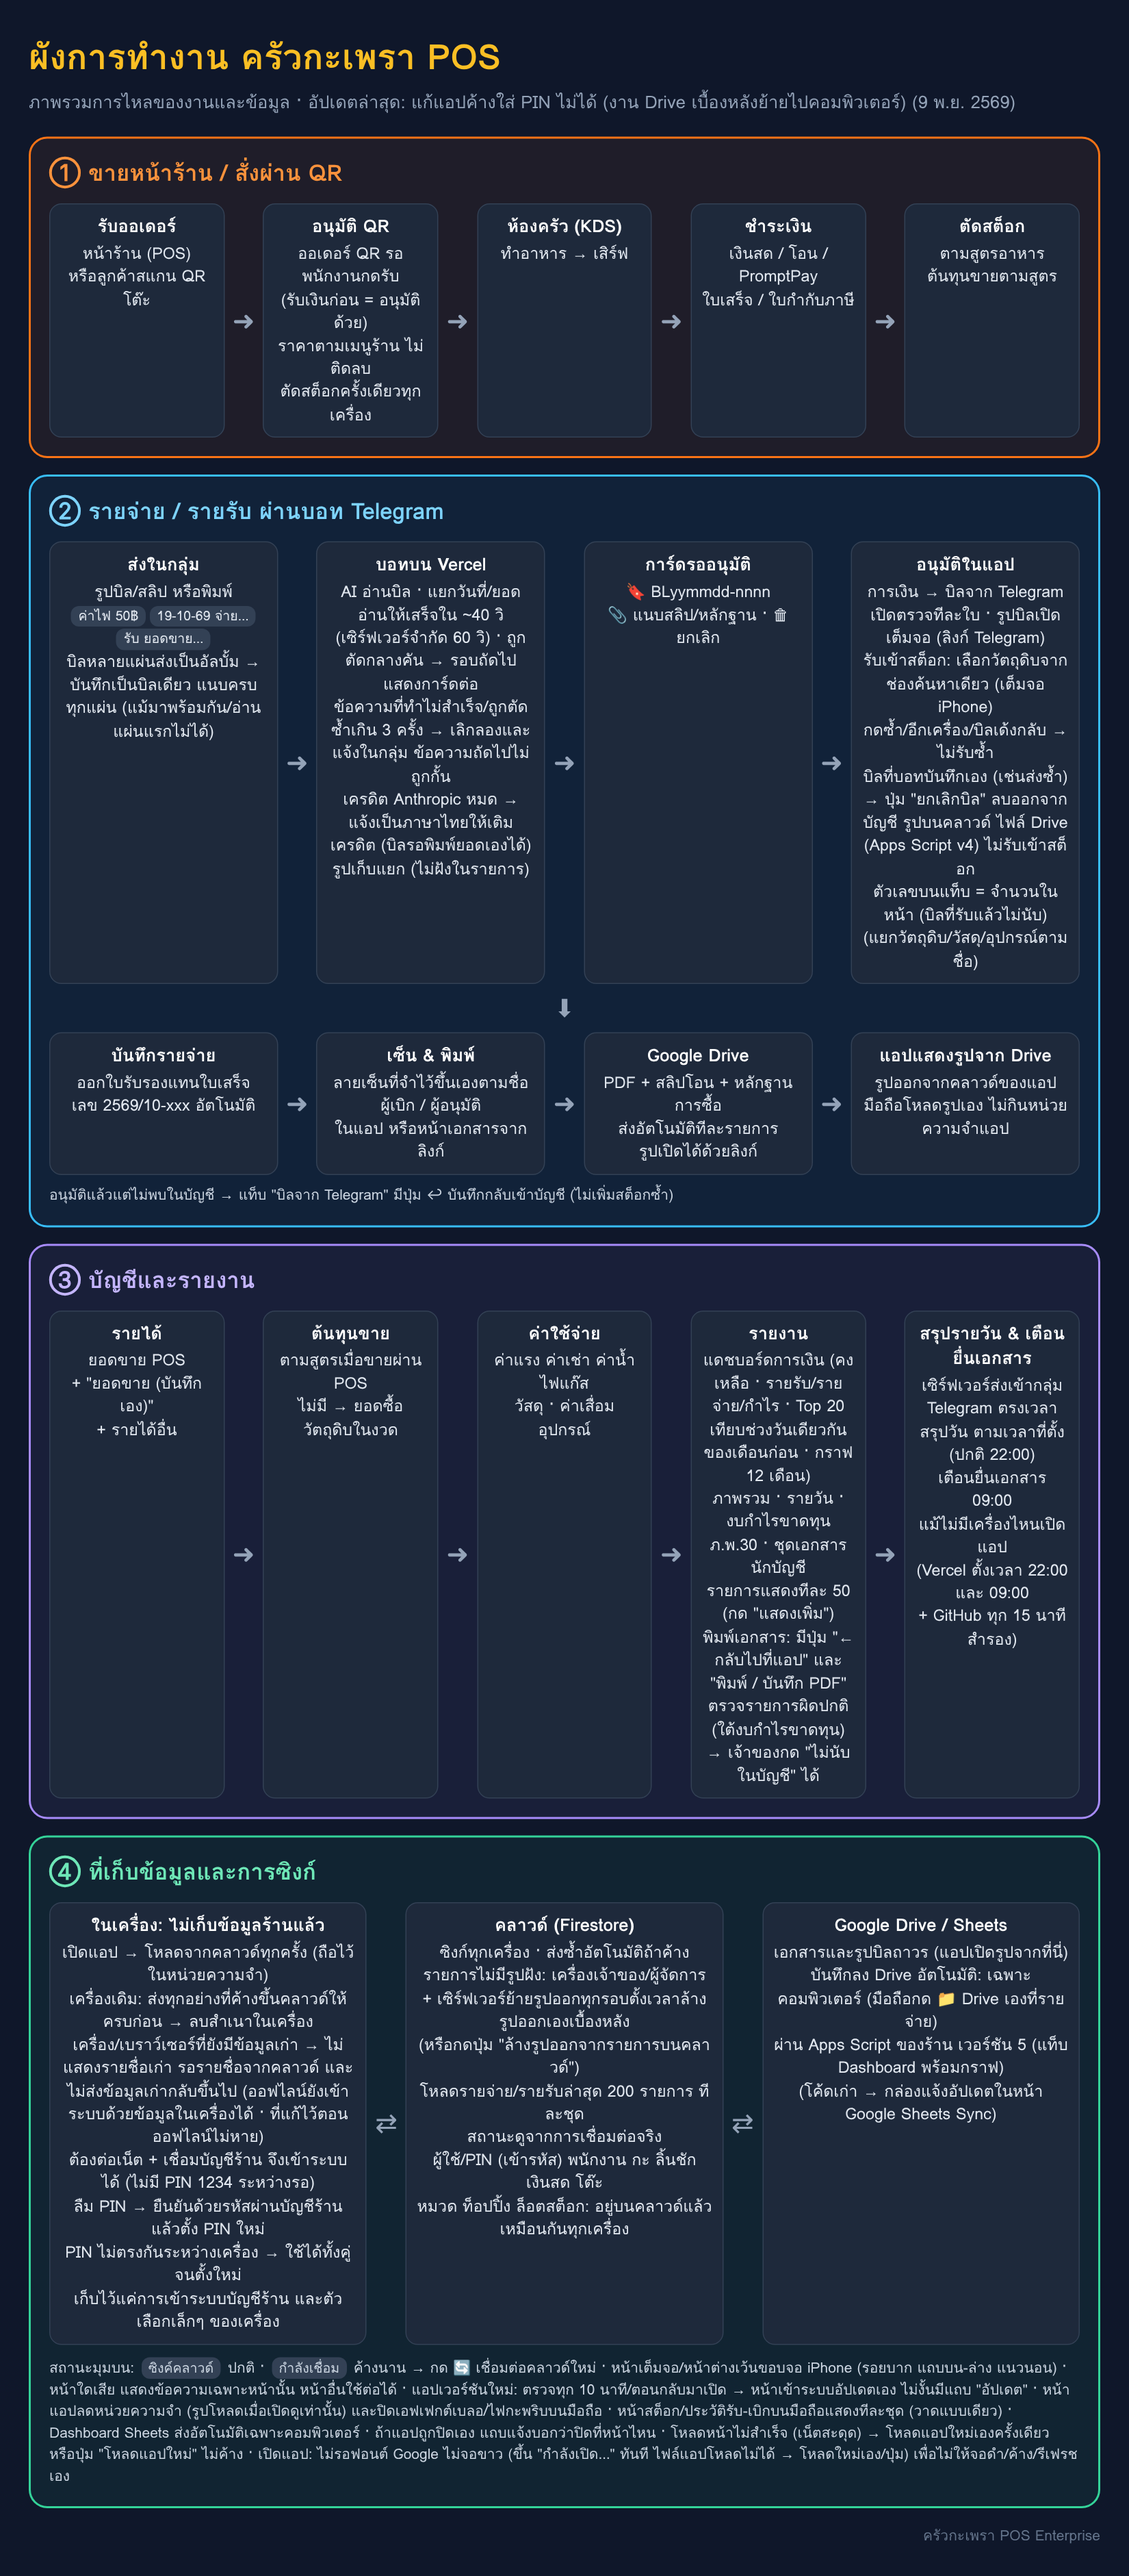
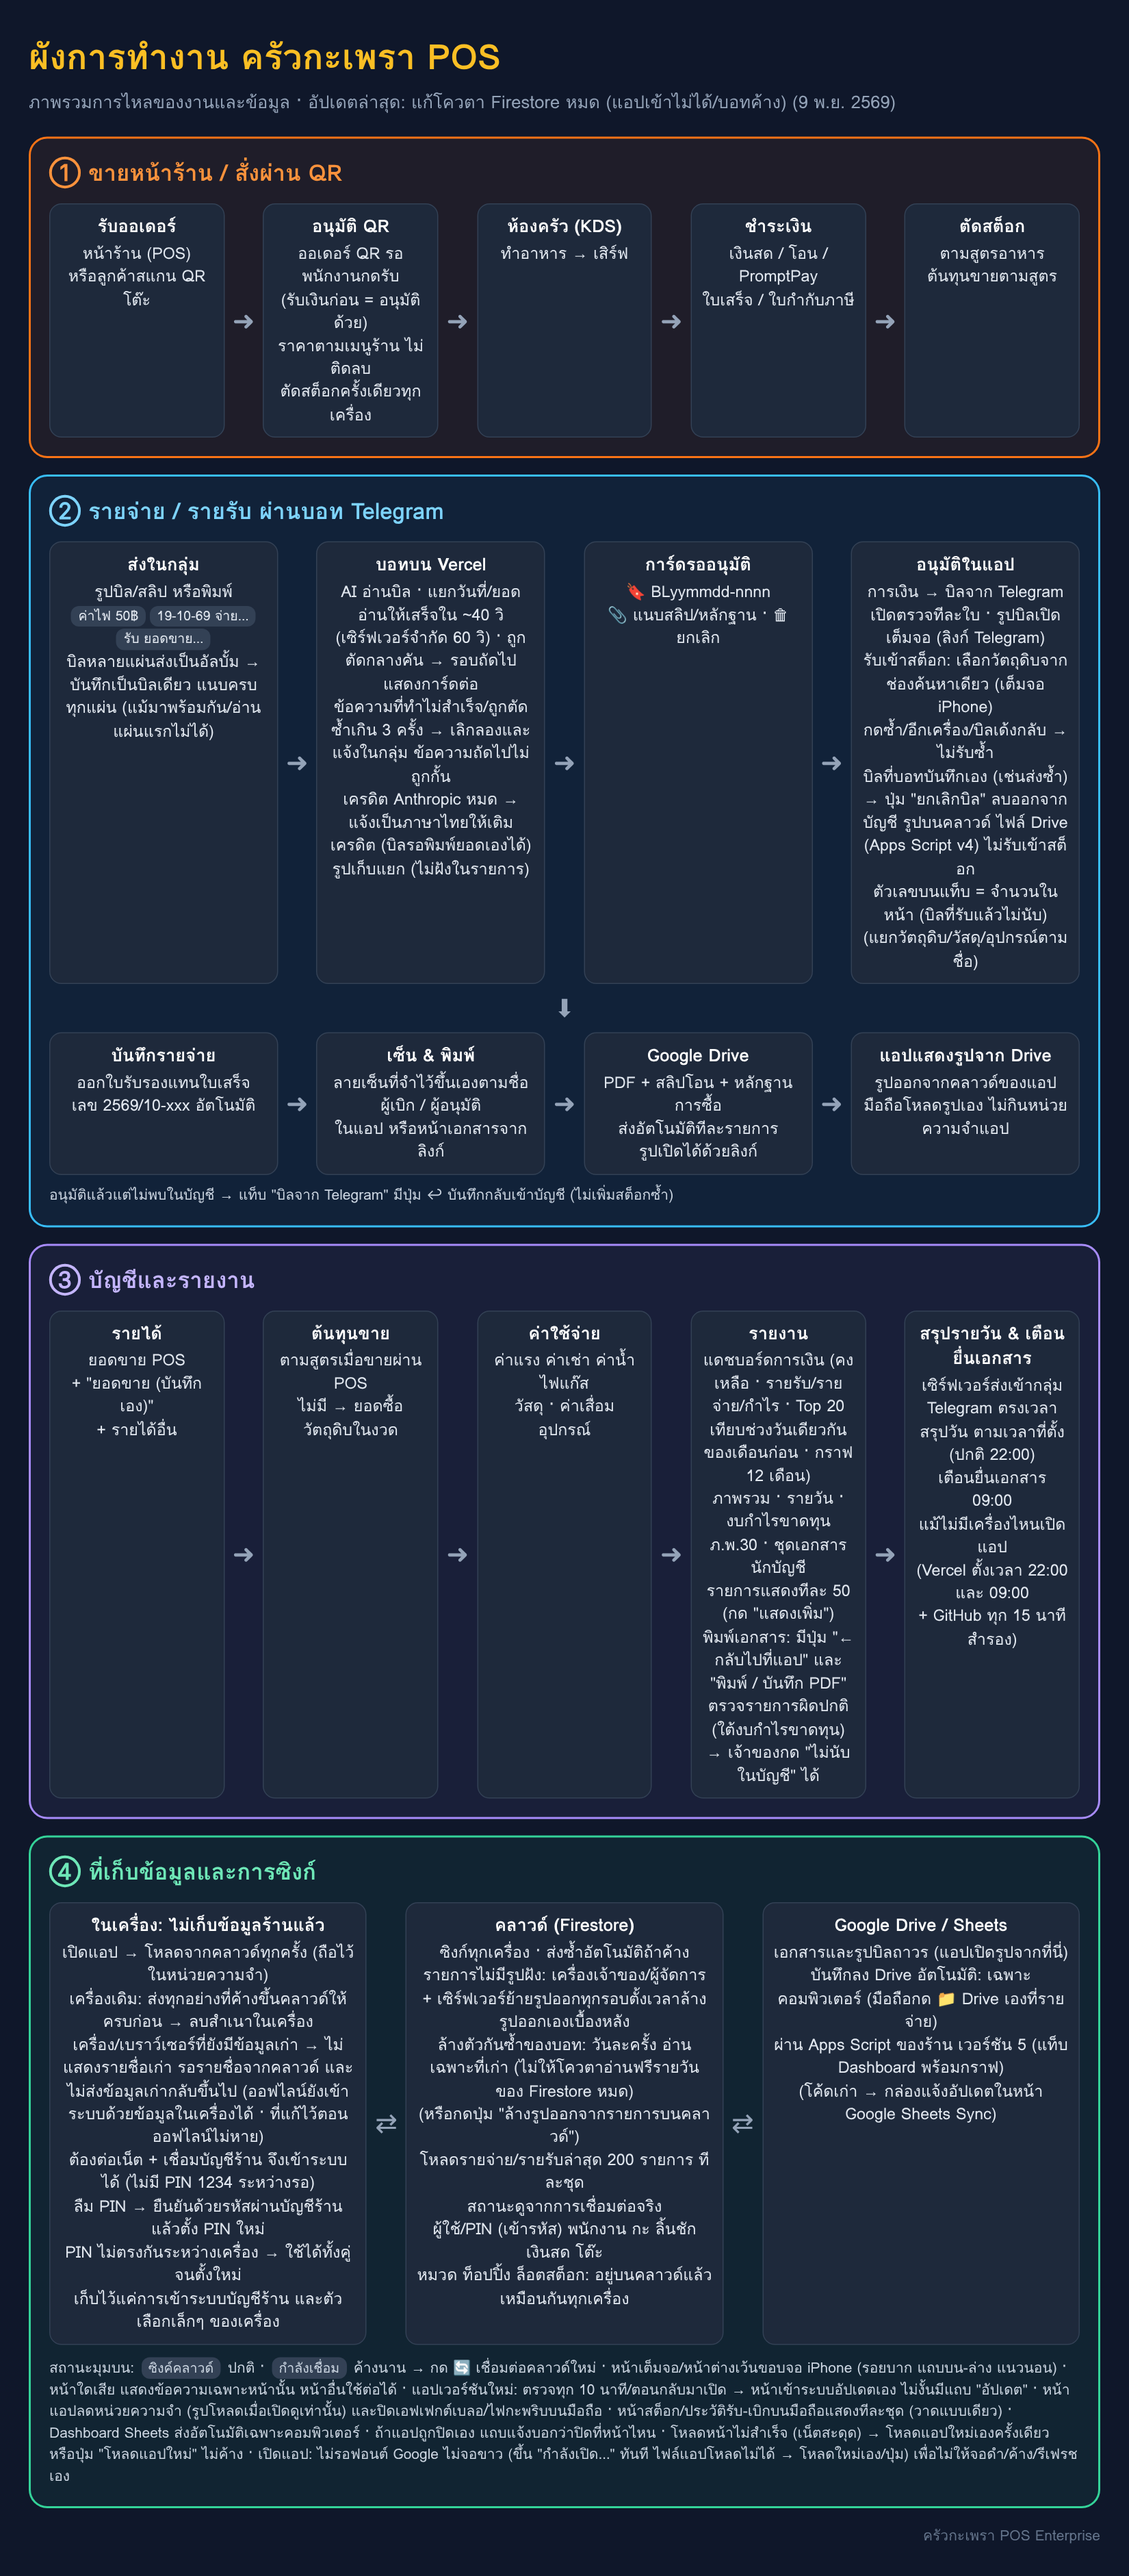
Stop using up the free Firestore reads: clean the bot's markers once a day
The project hit Firestore's daily quota ("Quota exceeded"): the app could not
read the people (PIN screen stuck) and the bot could not save bills ("reading
the bill" posted again on every Telegram retry). The markers clean-up added
on Nov 1 listed the whole status collection (up to 1,500 documents) on every
scheduled run, every 15 minutes: about 140,000 reads a day against 50,000.

- The clean-up runs once a day and reads only the markers old enough to go
  (a query on their time).
- The scheduled run's health line reads two documents (no listing).

Claude-Session: https://claude.ai/code/session_01Gq3UvYW4wv3hsVCXoh5wxy

Changed region(s): [[0.3709, 0.7775, 0.6182, 0.9019], [0.6182, 0.0311, 0.6491, 0.0622]]

diff --git a/docs/workflow/flow.html b/docs/workflow/flow.html
@@ -17,7 +17,7 @@ h1{margin:0 0 4px;font-size:34px;color:#fbbf24}.sub{color:#94a3b8;font-size:17px
 .foot{color:#64748b;font-size:14px;margin-top:6px;text-align:right}
 </style></head><body>
 <h1>ผังการทำงาน ครัวกะเพรา POS</h1>
-<div class="sub">ภาพรวมการไหลของงานและข้อมูล · อัปเดตล่าสุด: แก้แอปค้างใส่ PIN ไม่ได้ (งาน Drive เบื้องหลังย้ายไปคอมพิวเตอร์) (9 พ.ย. 2569)</div>
+<div class="sub">ภาพรวมการไหลของงานและข้อมูล · อัปเดตล่าสุด: แก้โควตา Firestore หมด (แอปเข้าไม่ได้/บอทค้าง) (9 พ.ย. 2569)</div>
 
 <div class="lane pos"><h2>① ขายหน้าร้าน / สั่งผ่าน QR</h2>
 <div class="row">
@@ -57,7 +57,7 @@ h1{margin:0 0 4px;font-size:34px;color:#fbbf24}.sub{color:#94a3b8;font-size:17px
 <div class="lane data"><h2>④ ที่เก็บข้อมูลและการซิงก์</h2>
 <div class="row">
 <div class="box"><b>ในเครื่อง: ไม่เก็บข้อมูลร้านแล้ว</b>เปิดแอป → โหลดจากคลาวด์ทุกครั้ง (ถือไว้ในหน่วยความจำ)<br>เครื่องเดิม: ส่งทุกอย่างที่ค้างขึ้นคลาวด์ให้ครบก่อน → ลบสำเนาในเครื่อง<br>เครื่อง/เบราว์เซอร์ที่ยังมีข้อมูลเก่า → ไม่แสดงรายชื่อเก่า รอรายชื่อจากคลาวด์ และไม่ส่งข้อมูลเก่ากลับขึ้นไป (ออฟไลน์ยังเข้าระบบด้วยข้อมูลในเครื่องได้ · ที่แก้ไว้ตอนออฟไลน์ไม่หาย)<br>ต้องต่อเน็ต + เชื่อมบัญชีร้าน จึงเข้าระบบได้ (ไม่มี PIN 1234 ระหว่างรอ)<br>ลืม PIN → ยืนยันด้วยรหัสผ่านบัญชีร้าน แล้วตั้ง PIN ใหม่<br>PIN ไม่ตรงกันระหว่างเครื่อง → ใช้ได้ทั้งคู่จนตั้งใหม่<br>เก็บไว้แค่การเข้าระบบบัญชีร้าน และตัวเลือกเล็กๆ ของเครื่อง</div><div class="ar">⇄</div>
-<div class="box"><b>คลาวด์ (Firestore)</b>ซิงก์ทุกเครื่อง · ส่งซ้ำอัตโนมัติถ้าค้าง<br>รายการไม่มีรูปฝัง: เครื่องเจ้าของ/ผู้จัดการ<br>+ เซิร์ฟเวอร์ย้ายรูปออกทุกรอบตั้งเวลาล้างรูปออกเองเบื้องหลัง<br>(หรือกดปุ่ม "ล้างรูปออกจากรายการบนคลาวด์")<br>โหลดรายจ่าย/รายรับล่าสุด 200 รายการ ทีละชุด<br>สถานะดูจากการเชื่อมต่อจริง<br>ผู้ใช้/PIN (เข้ารหัส) พนักงาน กะ ลิ้นชักเงินสด โต๊ะ<br>หมวด ท็อปปิ้ง ล็อตสต็อก: อยู่บนคลาวด์แล้ว เหมือนกันทุกเครื่อง</div><div class="ar">⇄</div>
+<div class="box"><b>คลาวด์ (Firestore)</b>ซิงก์ทุกเครื่อง · ส่งซ้ำอัตโนมัติถ้าค้าง<br>รายการไม่มีรูปฝัง: เครื่องเจ้าของ/ผู้จัดการ<br>+ เซิร์ฟเวอร์ย้ายรูปออกทุกรอบตั้งเวลาล้างรูปออกเองเบื้องหลัง<br>ล้างตัวกันซ้ำของบอท: วันละครั้ง อ่านเฉพาะที่เก่า (ไม่ให้โควตาอ่านฟรีรายวันของ Firestore หมด)<br>(หรือกดปุ่ม "ล้างรูปออกจากรายการบนคลาวด์")<br>โหลดรายจ่าย/รายรับล่าสุด 200 รายการ ทีละชุด<br>สถานะดูจากการเชื่อมต่อจริง<br>ผู้ใช้/PIN (เข้ารหัส) พนักงาน กะ ลิ้นชักเงินสด โต๊ะ<br>หมวด ท็อปปิ้ง ล็อตสต็อก: อยู่บนคลาวด์แล้ว เหมือนกันทุกเครื่อง</div><div class="ar">⇄</div>
 <div class="box"><b>Google Drive / Sheets</b>เอกสารและรูปบิลถาวร (แอปเปิดรูปจากที่นี่)<br>บันทึกลง Drive อัตโนมัติ: เฉพาะคอมพิวเตอร์ (มือถือกด 📁 Drive เองที่รายจ่าย)<br>ผ่าน Apps Script ของร้าน เวอร์ชัน 5 (แท็บ Dashboard พร้อมกราฟ)<br>(โค้ดเก่า → กล่องแจ้งอัปเดตในหน้า Google Sheets Sync)</div>
 </div>
 <div class="note">สถานะมุมบน: <span class="tag">ซิงค์คลาวด์</span> ปกติ · <span class="tag">กำลังเชื่อม</span> ค้างนาน → กด 🔄 เชื่อมต่อคลาวด์ใหม่ · หน้าเต็มจอ/หน้าต่างเว้นขอบจอ iPhone (รอยบาก แถบบน-ล่าง แนวนอน) · หน้าใดเสีย แสดงข้อความเฉพาะหน้านั้น หน้าอื่นใช้ต่อได้ · แอปเวอร์ชันใหม่: ตรวจทุก 10 นาที/ตอนกลับมาเปิด → หน้าเข้าระบบอัปเดตเอง ไม่งั้นมีแถบ "อัปเดต" · หน้าแอปลดหน่วยความจำ (รูปโหลดเมื่อเปิดดูเท่านั้น) และปิดเอฟเฟกต์เบลอ/ไฟกะพริบบนมือถือ · หน้าสต็อก/ประวัติรับ-เบิกบนมือถือแสดงทีละชุด (วาดแบบเดียว) · Dashboard Sheets ส่งอัตโนมัติเฉพาะคอมพิวเตอร์ · ถ้าแอปถูกปิดเอง แถบแจ้งบอกว่าปิดที่หน้าไหน · โหลดหน้าไม่สำเร็จ (เน็ตสะดุด) → โหลดแอปใหม่เองครั้งเดียว หรือปุ่ม "โหลดแอปใหม่" ไม่ค้าง · เปิดแอป: ไม่รอฟอนต์ Google ไม่จอขาว (ขึ้น "กำลังเปิด…" ทันที ไฟล์แอปโหลดไม่ได้ → โหลดใหม่เอง/ปุ่ม) เพื่อไม่ให้จอดำ/ค้าง/รีเฟรชเอง</div>

diff --git a/src/server/scheduledJobs.ts b/src/server/scheduledJobs.ts
@@ -186,18 +186,19 @@ const MARKER_DAYS = 2;
  */
 export async function removeOldMarkers(db: Firestore, branchId: string, now: Date, until: number): Promise<number> {
   const before = new Date(now.getTime() - MARKER_DAYS * 86_400_000).toISOString();
+  // Once a day, and only the old ones are read: listing the whole status collection on every run
+  // (every 15 minutes) used up the project's free daily reads, and the app and the bot stopped
+  const day = before.slice(0, 10);
+  const mark = `branches/${branchId}/status/markers_cleanup`;
+  if (String((await db.get(mark))?.day || '') >= day) return 0;
+  await db.set(mark, { day });
   let removed = 0;
-  let token = '';
-  for (let page = 0; page < 5 && Date.now() < until; page++) {
-    const { docs, next } = await db.list(`branches/${branchId}/status`, 300, token, ['at']);
-    for (const d of docs) {
-      if (Date.now() >= until || removed >= 300) return removed;
-      if (!/^tg(update|album)_/.test(d.id) || String(d.data.at || '') >= before) continue;
-      await db.delete(`branches/${branchId}/status/${d.id}`);
-      removed++;
-    }
-    if (!next) break;
-    token = next;
+  const old = await db.whereBelow(`branches/${branchId}`, 'status', 'at', before, 300);
+  for (const d of old) {
+    if (Date.now() >= until) break;
+    if (!/^tg(update|album)_/.test(d.id)) continue;
+    await db.delete(`branches/${branchId}/status/${d.id}`);
+    removed++;
   }
   return removed;
 }
@@ -281,13 +282,10 @@ export async function runShop(signIn: ShopSignIn, now: Date, doFetch: Fetch = fe
     // tried again on the next run
   }
   // The bot's health in numbers (no bill details): the size of its list against Firestore's 1 MiB per
-  // document, deliveries not done, and the kind of the last error
+  // document, and the kind of the last error (two reads)
   try {
     const inbox: any = await db.get(`branches/${b}/config/telegram_inbox`);
     done.push(`bot inbox ${Math.round(JSON.stringify(inbox || {}).length / 1024)}KB/${Object.keys(inbox?.byId || {}).length}`);
-    const { docs } = await db.list(`branches/${b}/status`, 300, '', ['state', 'tries', 'at']);
-    const open = docs.filter(d => d.id.startsWith('tgupdate_') && d.data.state && d.data.state !== 'done');
-    for (const d of open.slice(-5)) done.push(`bot ${d.id.slice(9)} ${d.data.state} x${d.data.tries || 1} ${Math.round((Date.now() - Date.parse(String(d.data.at || ''))) / 60000)}m`);
     const state: any = await db.get(`branches/${b}/config/telegram_bot_state`);
     const err = String(state?.lastError || '');
     const kind = (err.match(/exceed|maximum|size|deadline|timeout|timed out|permission|quota|credit|unavailable|fetch failed|ECONN|abort/i) || [''])[0];

diff --git a/src/server/firestoreRest.ts b/src/server/firestoreRest.ts
@@ -168,6 +168,27 @@ export class Firestore {
     };
   }
 
+  /**
+   * Documents of a collection under a parent (e.g. status under branches/<b>) whose field is below
+   * the value: only those are read (each document returned is a billed read)
+   */
+  async whereBelow(parentPath: string, collection: string, field: string, value: string, limit: number): Promise<{ id: string; data: { [k: string]: Json } }[]> {
+    const rows = await this.call(`${this.base}/${parentPath}:runQuery`, {
+      method: 'POST',
+      body: JSON.stringify({
+        structuredQuery: {
+          from: [{ collectionId: collection }],
+          where: { fieldFilter: { field: { fieldPath: fieldPath(field) }, op: 'LESS_THAN', value: { stringValue: value } } },
+          select: { fields: [{ fieldPath: fieldPath(field) }] },
+          limit
+        }
+      })
+    });
+    return (Array.isArray(rows) ? rows : [])
+      .filter(r => r.document)
+      .map(r => ({ id: String(r.document.name).split('/').pop() || '', data: fromFsFields(r.document.fields || {}) }));
+  }
+
   /** A page of a top-level collection in document-id order, after the given id ('' from the start) */
   async page(collection: string, afterId: string, limit: number, select?: string[]): Promise<{ id: string; data: { [k: string]: Json } }[]> {
     const name = `${this.base.replace(/^https:\/\/firestore\.googleapis\.com\/v1\//, '')}/${collection}/${afterId}`;

diff --git a/src/server/__tests__/scheduledJobs.test.ts b/src/server/__tests__/scheduledJobs.test.ts
@@ -67,6 +67,12 @@ describe('scheduled notifications', () => {
       if (url.endsWith(':runQuery')) {
         const q = JSON.parse(init.body).structuredQuery;
         const coll = q.from[0].collectionId;
+        if (coll === 'status') {
+          const parent = decodeURIComponent(url.split('/documents/')[1]).replace(/:runQuery$/, '');
+          const below = q.where.fieldFilter.value.stringValue;
+          const hits = Object.keys(docs).filter(k => k.startsWith(`${parent}/status/`) && String(docs[k].at || '') && String(docs[k].at) < below);
+          return json(hits.map(k => ({ document: { name: `x/${k}`, fields: fsValue({ at: docs[k].at }).mapValue.fields } })));
+        }
         const rows =
           coll === 'orders'
             ? [{ branchId: 'main', createdAt: '2026-10-25T05:00:00.000Z', status: 'served', grandTotal: 150 }]
